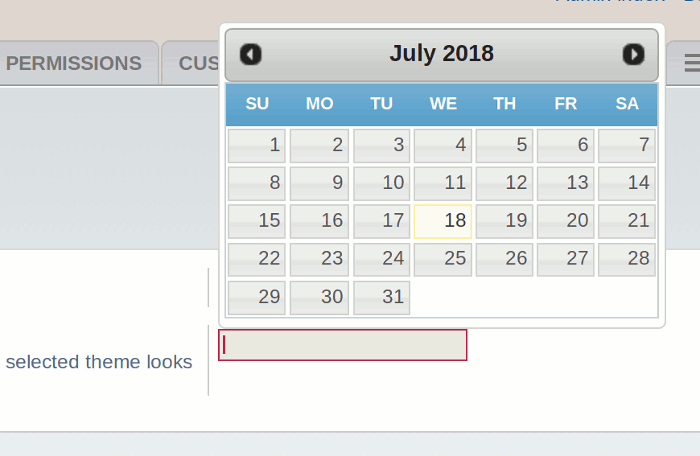
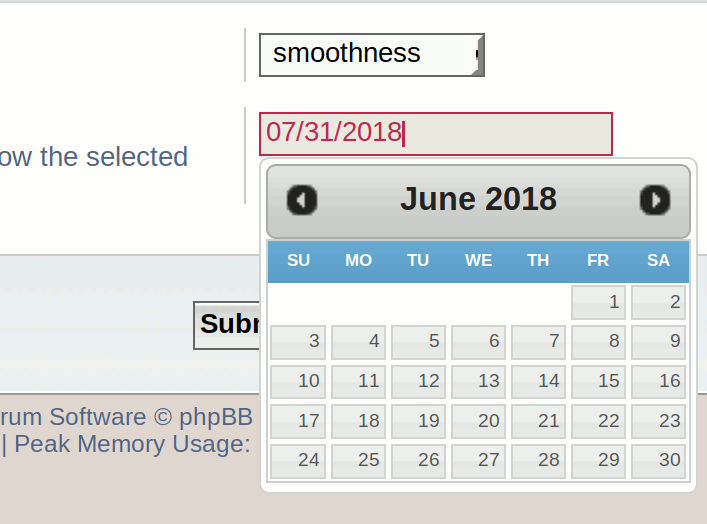
another screenshot (translations)

diff --git a/styles/all/template/datepicker.css b/styles/all/template/datepicker.css
@@ -1,4 +1,5 @@
-.ui-datepicker
+div.ui-datepicker
 {
     z-index: 999999999 !important;
+    font-size: 10px;
 }

diff --git a/README.md b/README.md
@@ -17,6 +17,10 @@ This phpBB extension provides loading of the [JQuery UI Datepicker](http://jquer
 
 ![ACP](doc/acp_2.png)
 
+Other theme and translation (Dutch):
+
+![ACP](doc/acp_3.png)
+
 ## Quick Install
 
 You can install this on the latest release of phpBB 3.2 by following the steps below:
